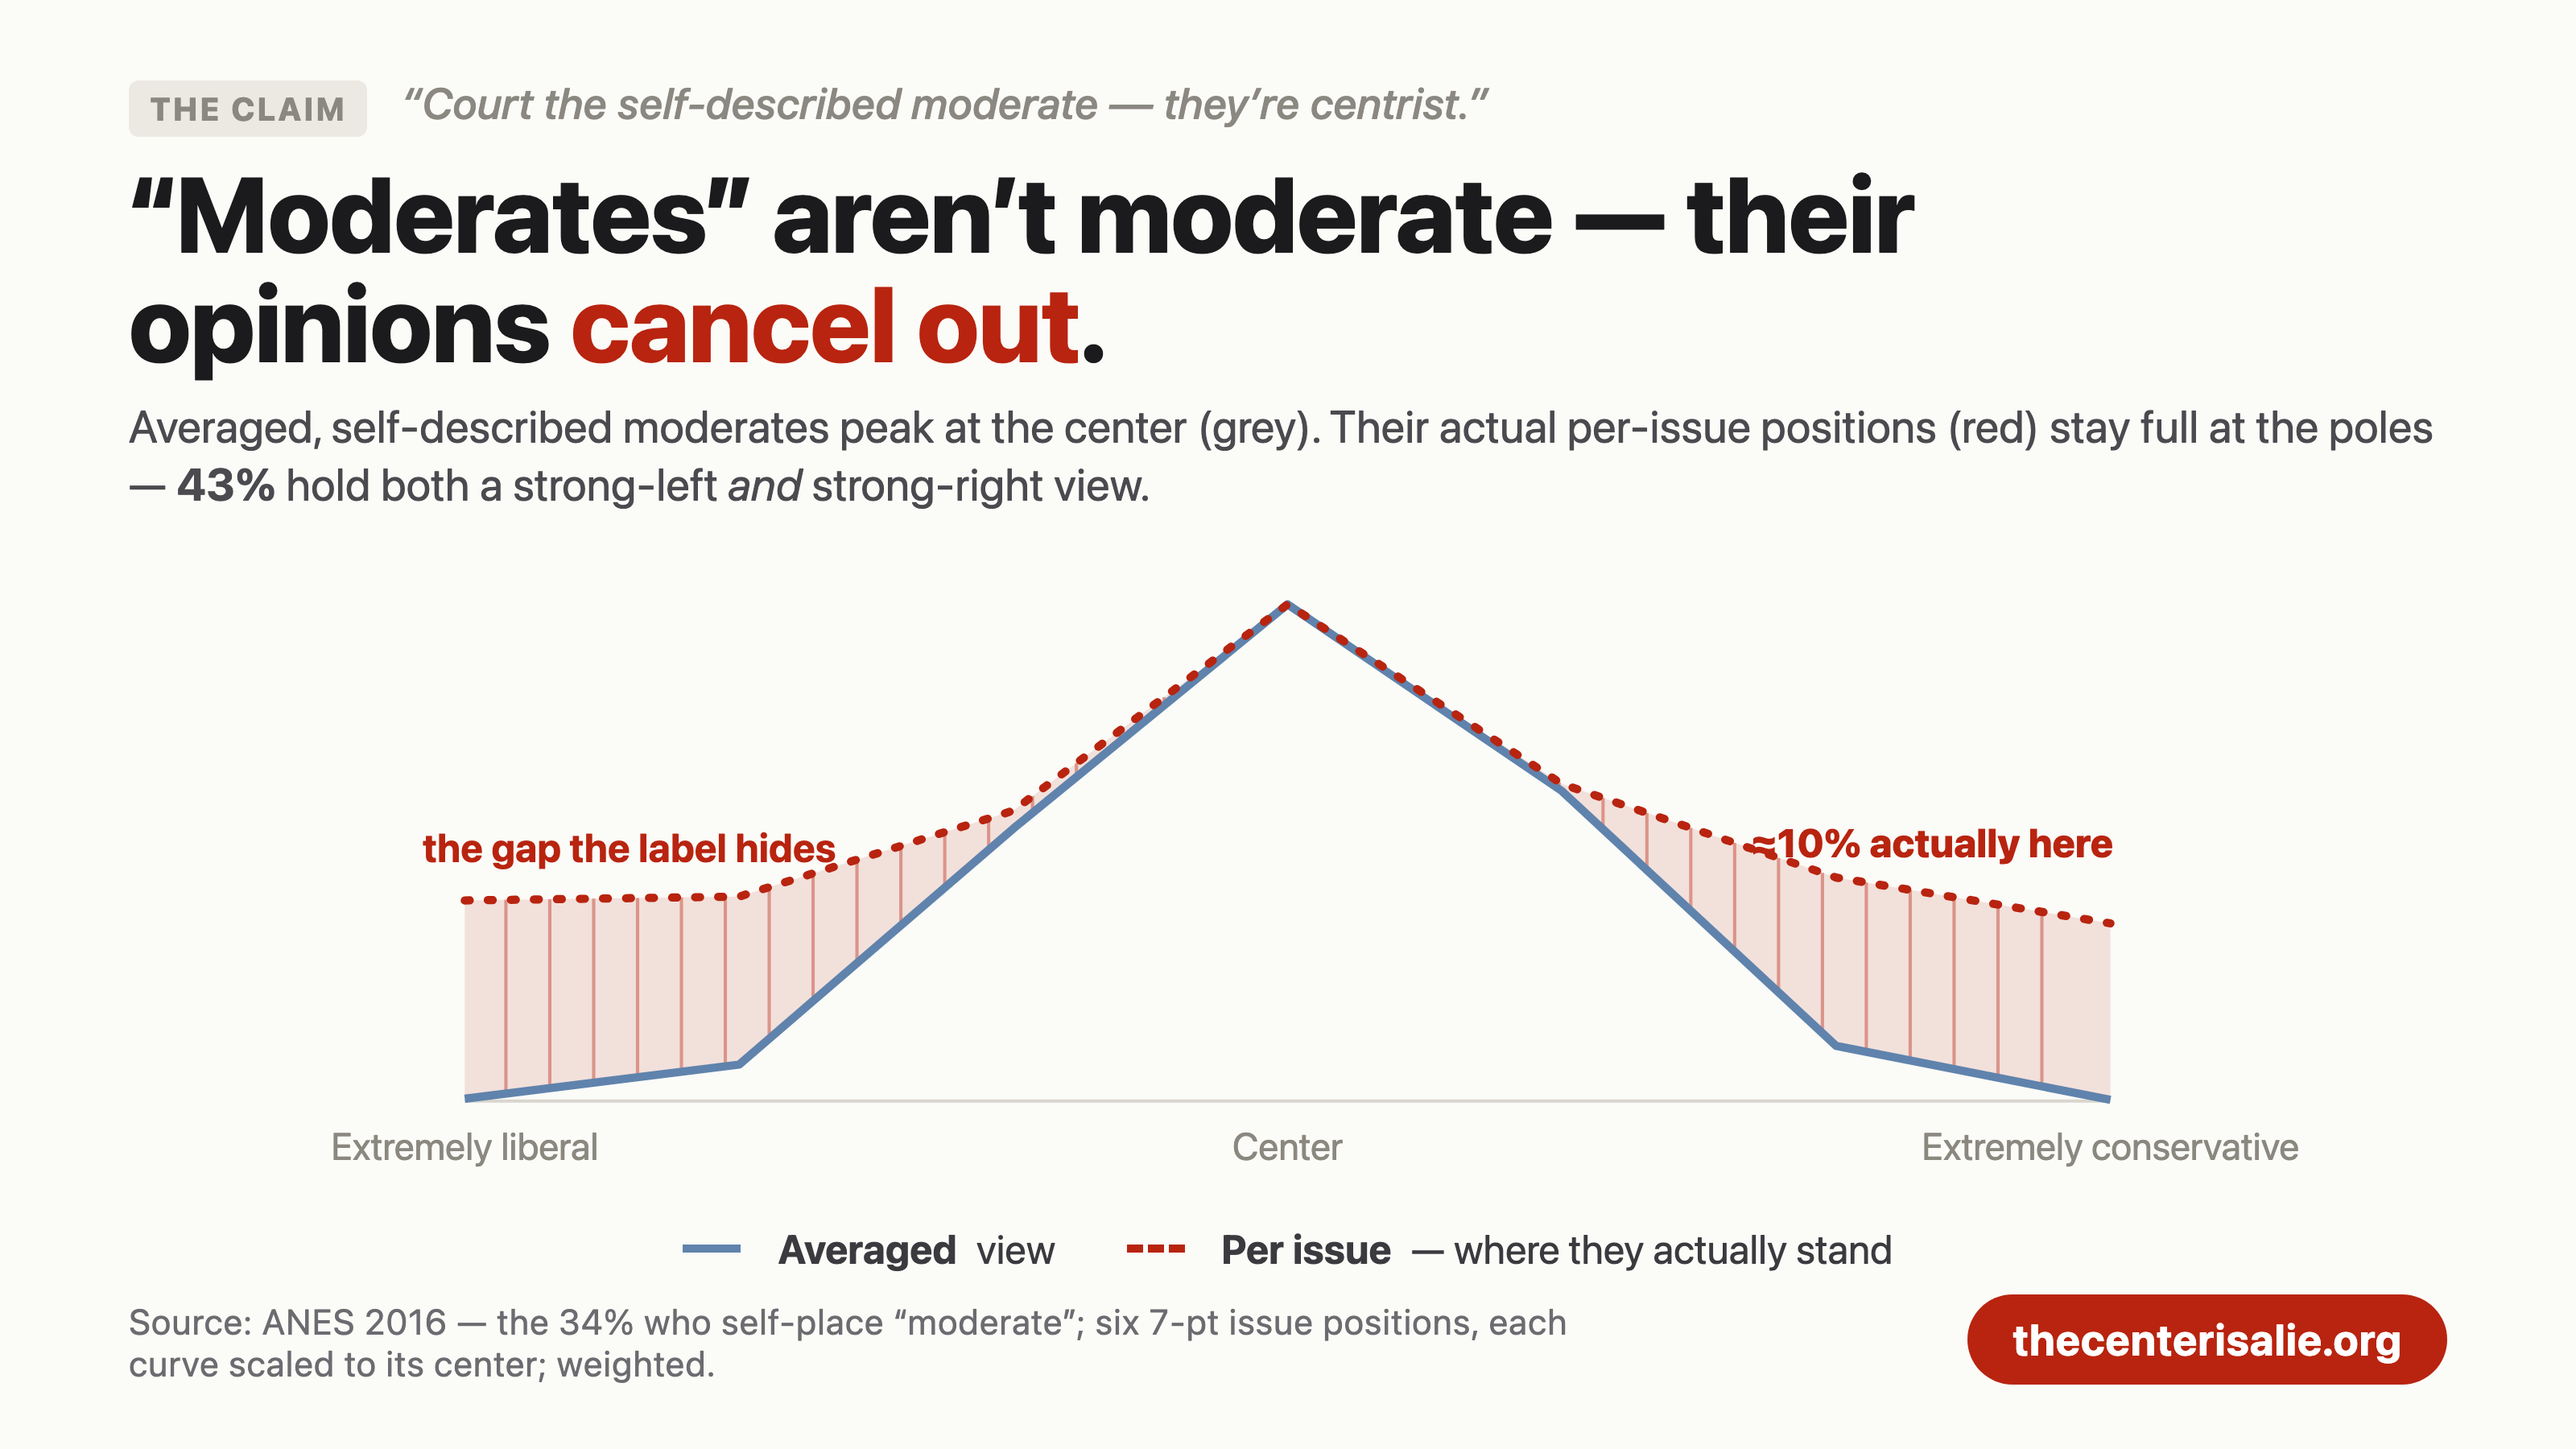
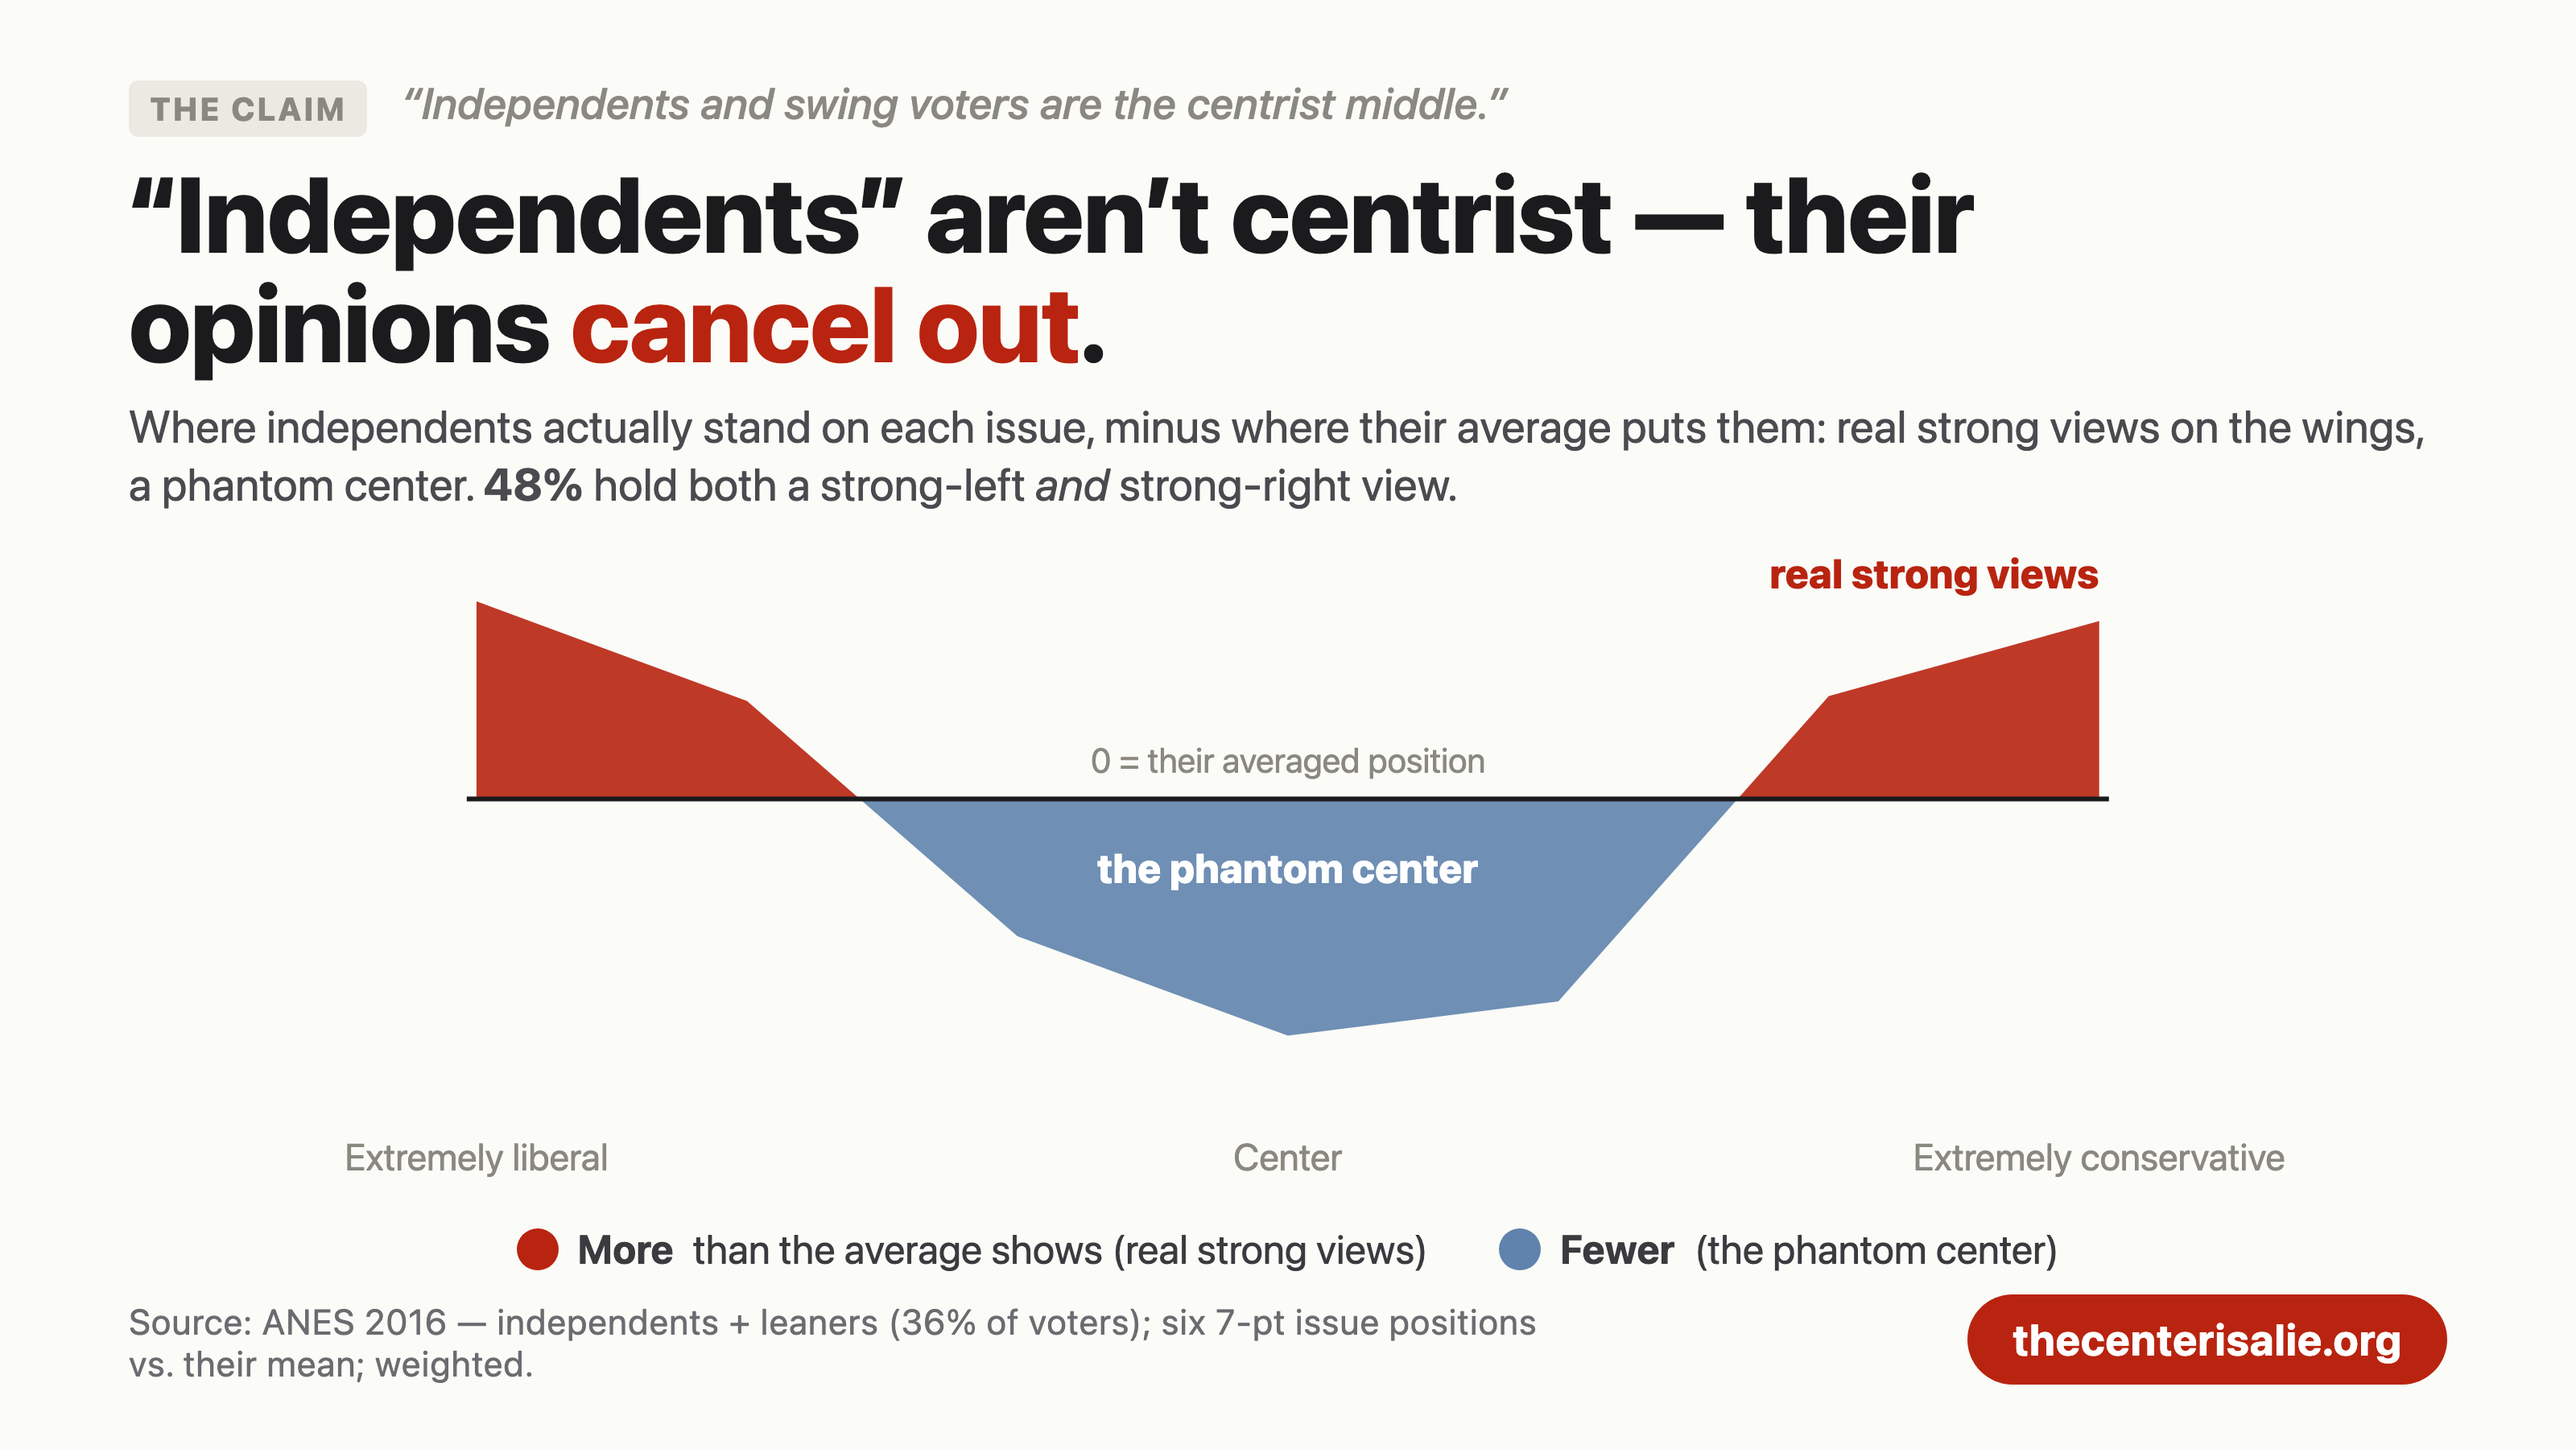
feat(og): illusion = signed difference chart (per-issue minus average) on independents
- baseline switched to independents + leaners (bigger wings +23, smaller middle -14.5 vs moderates)
- plot (per-issue - averaged) around y=0: red wings above zero (real strong views),
  blue phantom center below zero. Grounded in pp differences, weighted ANES 2016
- retitled: "Independents aren't centrist — their opinions cancel out"

diff --git a/web/og-cards/chart-illusion.html b/web/og-cards/chart-illusion.html
@@ -2,21 +2,21 @@
 <html lang="en"><head><meta charset="utf-8"><link rel="stylesheet" href="./chart-card.css"></head>
 <body>
   <div class="chartcard">
-    <div class="cc-claim"><span class="tag">The claim</span> &ldquo;Court the self-described moderate &mdash; they&rsquo;re centrist.&rdquo;</div>
-    <div class="cc-title">&ldquo;Moderates&rdquo; aren&rsquo;t moderate &mdash; their opinions <span class="hl">cancel out</span>.</div>
-    <div class="cc-sub">Averaged, self-described moderates peak at the center (grey). Their actual per-issue positions
-      (red) stay full at the poles &mdash; <strong>43%</strong> hold both a strong-left <em>and</em> strong-right view.</div>
+    <div class="cc-claim"><span class="tag">The claim</span> &ldquo;Independents and swing voters are the centrist middle.&rdquo;</div>
+    <div class="cc-title">&ldquo;Independents&rdquo; aren&rsquo;t centrist &mdash; their opinions <span class="hl">cancel out</span>.</div>
+    <div class="cc-sub">Where independents actually stand on each issue, minus where their average puts them:
+      real strong views on the wings, a phantom center. <strong>48%</strong> hold both a strong-left <em>and</em> strong-right view.</div>
 
-    <div class="cc-chart"><svg id="ill" viewBox="0 0 1240 424" role="img"
-      aria-label="Both distributions scaled to their center; the averaged curve collapses at the poles while the per-issue curve stays elevated, opening a large gap on the sides"></svg></div>
+    <div class="cc-chart"><svg id="ill" viewBox="0 0 1240 430" role="img"
+      aria-label="Per-issue minus averaged positions for independents: positive on the wings, negative in the middle"></svg></div>
 
     <div class="cc-legend">
-      <div class="item"><span style="display:inline-block;width:36px;height:0;border-top:5px solid #5f83ac;vertical-align:middle;margin-right:11px"></span><b>Averaged</b> view</div>
-      <div class="item"><span style="display:inline-block;width:36px;height:0;border-top:5px dashed #b8240f;vertical-align:middle;margin-right:11px"></span><b>Per issue</b> &mdash; where they actually stand</div>
+      <div class="item"><span class="dot" style="background:#b8240f"></span><b>More</b> than the average shows (real strong views)</div>
+      <div class="item"><span class="dot" style="background:#5f83ac"></span><b>Fewer</b> (the phantom center)</div>
     </div>
 
     <div class="cc-foot">
-      <div class="cc-source">Source: ANES 2016 &mdash; the 34% who self-place &ldquo;moderate&rdquo;; six 7-pt issue positions, each curve scaled to its center; weighted.</div>
+      <div class="cc-source">Source: ANES 2016 &mdash; independents + leaners (36% of voters); six 7-pt issue positions vs. their mean; weighted.</div>
       <div class="cc-btn">thecenterisalie.org</div>
     </div>
   </div>
@@ -26,41 +26,28 @@
     const svg = document.getElementById('ill');
     const el = (t, a) => { const n = document.createElementNS(NS, t); for (const k in a) n.setAttribute(k, a[k]); return n; };
     const pos = [-3, -2, -1, 0, 1, 2, 3];
-    const AVG = [0.2, 3.1, 23.2, 42.3, 26.4, 4.7, 0.1];
-    const IND = [10.5, 10.7, 15.2, 26.0, 16.6, 11.7, 9.3];
-    // relative axis: scale each distribution to its own center (position 0) so both peak at 1
-    const AVGr = AVG.map((v) => v / AVG[3]);
-    const INDr = IND.map((v) => v / IND[3]);
-    const X0 = 120, X1 = 1120, W = X1 - X0, axisY = 356, topY = 30, YMAX = 1.08;
+    const DIFF = [12.1, 6.0, -8.4, -14.5, -12.4, 6.3, 10.9]; // per-issue minus averaged (pp)
+    const X0 = 120, X1 = 1120, W = X1 - X0, DMAX = 14, DMIN = -18, plotTop = 34;
+    const scale = (356 - plotTop) / (DMAX - DMIN), zeroY = plotTop + DMAX * scale;
     const x = (p) => X0 + (p + 3) / 6 * W;
-    const y = (v) => axisY - v / YMAX * (axisY - topY);
-    const interp = (arr, xd) => { if (xd <= -3) return arr[0]; if (xd >= 3) return arr[6]; const i = Math.floor(xd + 3); return arr[i] + (arr[i + 1] - arr[i]) * (xd + 3 - i); };
+    const y = (d) => zeroY - d * scale;
+    const xL = -1.583, xR = 1.663; // zero-crossings
 
-    svg.appendChild(el('line', { x1: X0, y1: axisY, x2: X1, y2: axisY, stroke: '#d9d6cd', 'stroke-width': 2 }));
+    // red wings (per-issue above the average) + blue middle (phantom center)
+    svg.appendChild(el('path', { d: `M ${x(-3)} ${zeroY} L ${x(-3)} ${y(DIFF[0])} L ${x(-2)} ${y(DIFF[1])} L ${x(xL)} ${zeroY} Z`, fill: '#b8240f', 'fill-opacity': 0.9 }));
+    svg.appendChild(el('path', { d: `M ${x(xR)} ${zeroY} L ${x(2)} ${y(DIFF[5])} L ${x(3)} ${y(DIFF[6])} L ${x(3)} ${zeroY} Z`, fill: '#b8240f', 'fill-opacity': 0.9 }));
+    svg.appendChild(el('path', { d: `M ${x(xL)} ${zeroY} L ${x(-1)} ${y(DIFF[2])} L ${x(0)} ${y(DIFF[3])} L ${x(1)} ${y(DIFF[4])} L ${x(xR)} ${zeroY} Z`, fill: '#5f83ac', 'fill-opacity': 0.9 }));
 
-    // the GAP between per-issue (upper) and averaged (lower): near-zero at center, large on the sides
-    let g = ''; pos.forEach((p, i) => g += (i ? ' L' : 'M') + ` ${x(p)} ${y(INDr[i])}`);
-    [...pos].reverse().forEach((p, k) => { const i = 6 - k; g += ` L ${x(p)} ${y(AVGr[i])}`; }); g += ' Z';
-    svg.appendChild(el('path', { d: g, fill: '#b8240f', 'fill-opacity': 0.12 }));
-    // vertical gap ticks — long on the sides, vanishing in the middle
-    for (let xd = -2.85; xd <= 2.85; xd += 0.16) {
-      const yA = y(interp(AVGr, xd)), yI = y(interp(INDr, xd));
-      if (yA - yI > 4) svg.appendChild(el('line', { x1: x(xd), y1: yA, x2: x(xd), y2: yI, stroke: '#b8240f', 'stroke-width': 2, 'stroke-opacity': 0.4 }));
-    }
-
-    // curves
-    let dA = ''; pos.forEach((p, i) => dA += (i ? ' L' : 'M') + ` ${x(p)} ${y(AVGr[i])}`);
-    svg.appendChild(el('path', { d: dA, fill: 'none', stroke: '#5f83ac', 'stroke-width': 5, 'stroke-linejoin': 'round' }));
-    let dI = ''; pos.forEach((p, i) => dI += (i ? ' L' : 'M') + ` ${x(p)} ${y(INDr[i])}`);
-    svg.appendChild(el('path', { d: dI, fill: 'none', stroke: '#b8240f', 'stroke-width': 5, 'stroke-linejoin': 'round', 'stroke-dasharray': '3 11', 'stroke-linecap': 'round' }));
+    // zero baseline
+    svg.appendChild(el('line', { x1: X0 - 6, y1: zeroY, x2: X1 + 6, y2: zeroY, stroke: '#1b1b1d', 'stroke-width': 3 }));
 
     const t = (tx, ty, txt, fill, size, anchor, weight) => { const n = el('text', { x: tx, y: ty, 'text-anchor': anchor || 'middle', fill, 'font-size': size, 'font-weight': weight || 400 }); n.textContent = txt; svg.appendChild(n); };
-    // grounded callouts above each side lobe (clear of the axis labels)
-    t(x(2.35), y(interp(INDr, 2.35)) - 22, '≈10% actually here', '#b8240f', 24, 'middle', 800);
-    t(x(-2.4), y(interp(INDr, -2.4)) - 22, 'the gap the label hides', '#b8240f', 24, 'middle', 700);
+    t(x(0), zeroY - 16, '0 = their averaged position', '#8a887f', 21, 'middle');
+    t(x(3), y(DIFF[6]) - 20, 'real strong views', '#b8240f', 25, 'end', 800);
+    t(x(0), zeroY + 52, 'the phantom center', '#ffffff', 25, 'middle', 800);
     // x-axis labels
-    t(x(-3), axisY + 36, 'Extremely liberal', '#8a887f', 23, 'middle');
-    t(x(0), axisY + 36, 'Center', '#8a887f', 23, 'middle');
-    t(x(3), axisY + 36, 'Extremely conservative', '#8a887f', 23, 'middle');
+    t(x(-3), 404, 'Extremely liberal', '#8a887f', 23, 'middle');
+    t(x(0), 404, 'Center', '#8a887f', 23, 'middle');
+    t(x(3), 404, 'Extremely conservative', '#8a887f', 23, 'middle');
   </script>
 </body></html>
